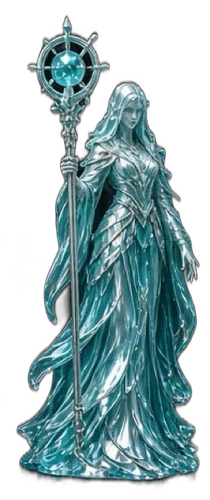
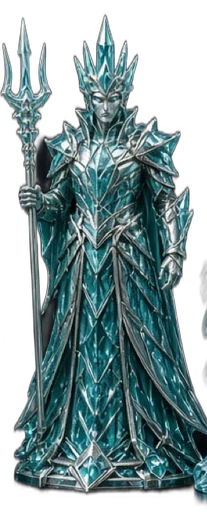
Give Atlantis its trident king and a visible Bakufu rook
The pagoda was eaten by cutout against black lacquer.

diff --git a/src/lib/chess/catalog.ts b/src/lib/chess/catalog.ts
@@ -329,7 +329,7 @@ export function tableName(w: Faction, b: Faction): string {
 }
 
 export function factionSrc(faction: Faction, type: PieceType): string {
-  const bust = faction.ext === "svg" ? "?v=3" : "";
+  const bust = faction.ext === "svg" ? "?v=3" : "?v=4";
   return `/sets/${faction.dir}/${faction.file}-${type}.${faction.ext}${bust}`;
 }
 
